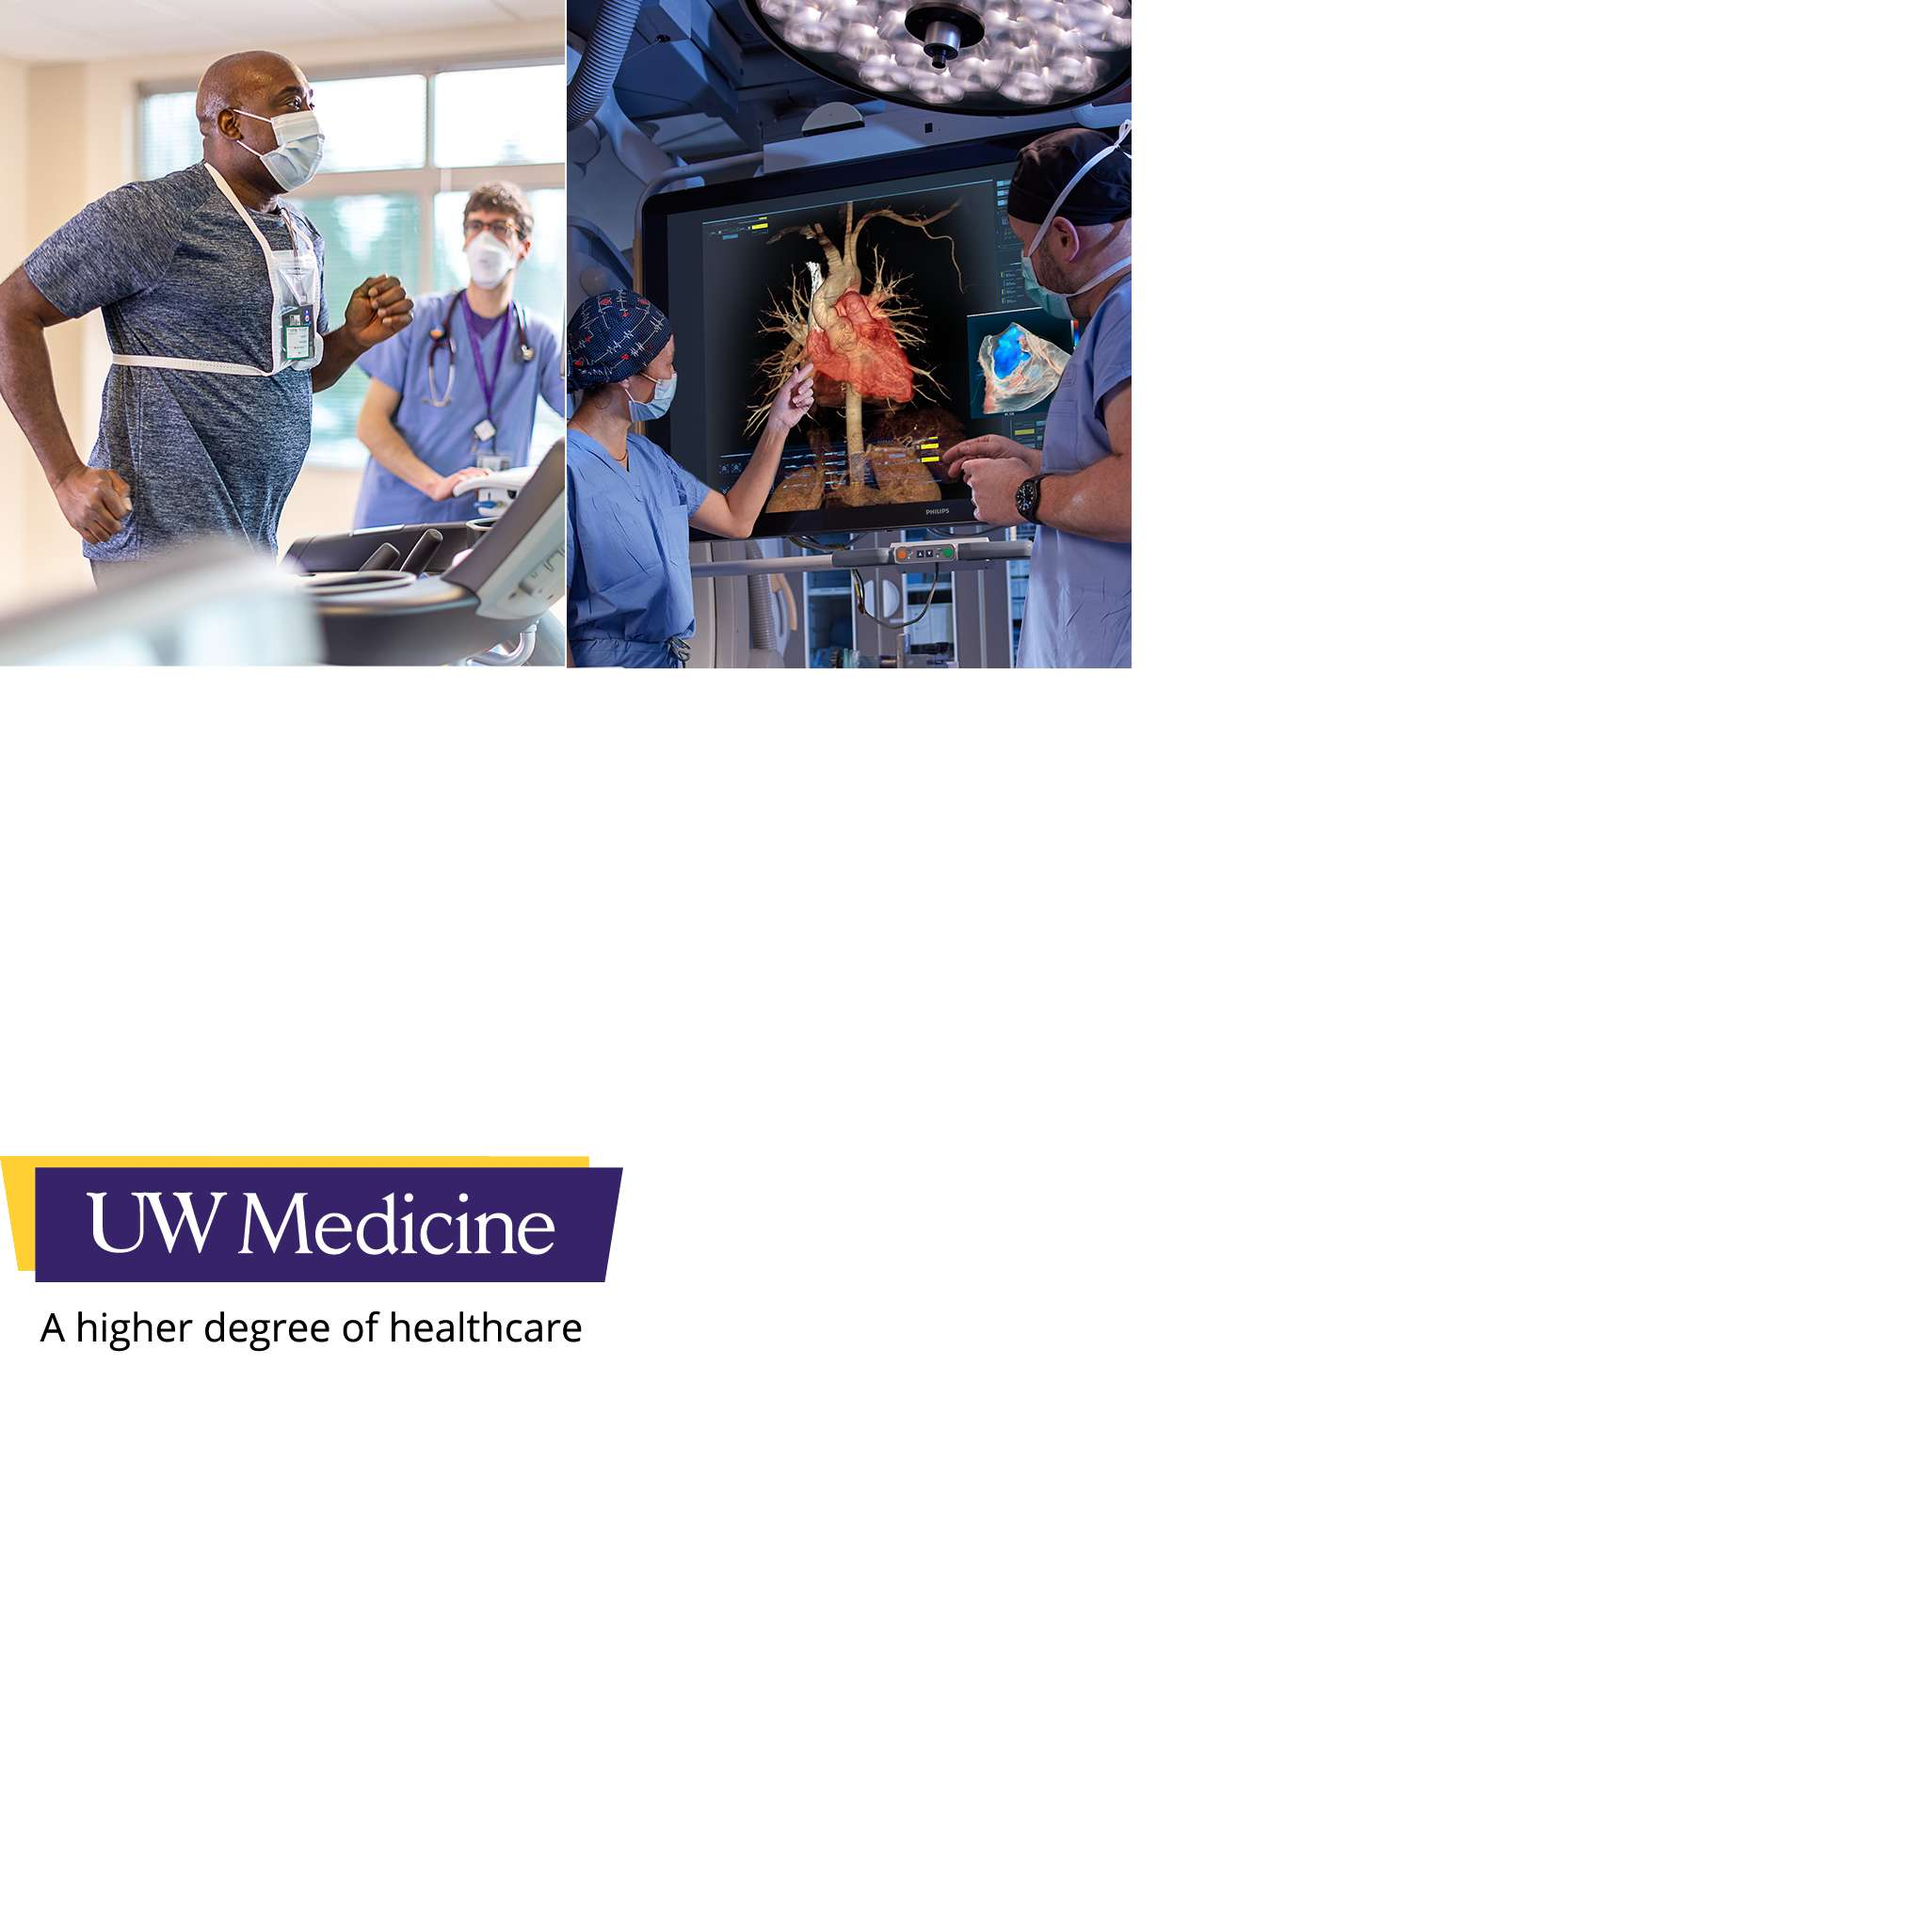
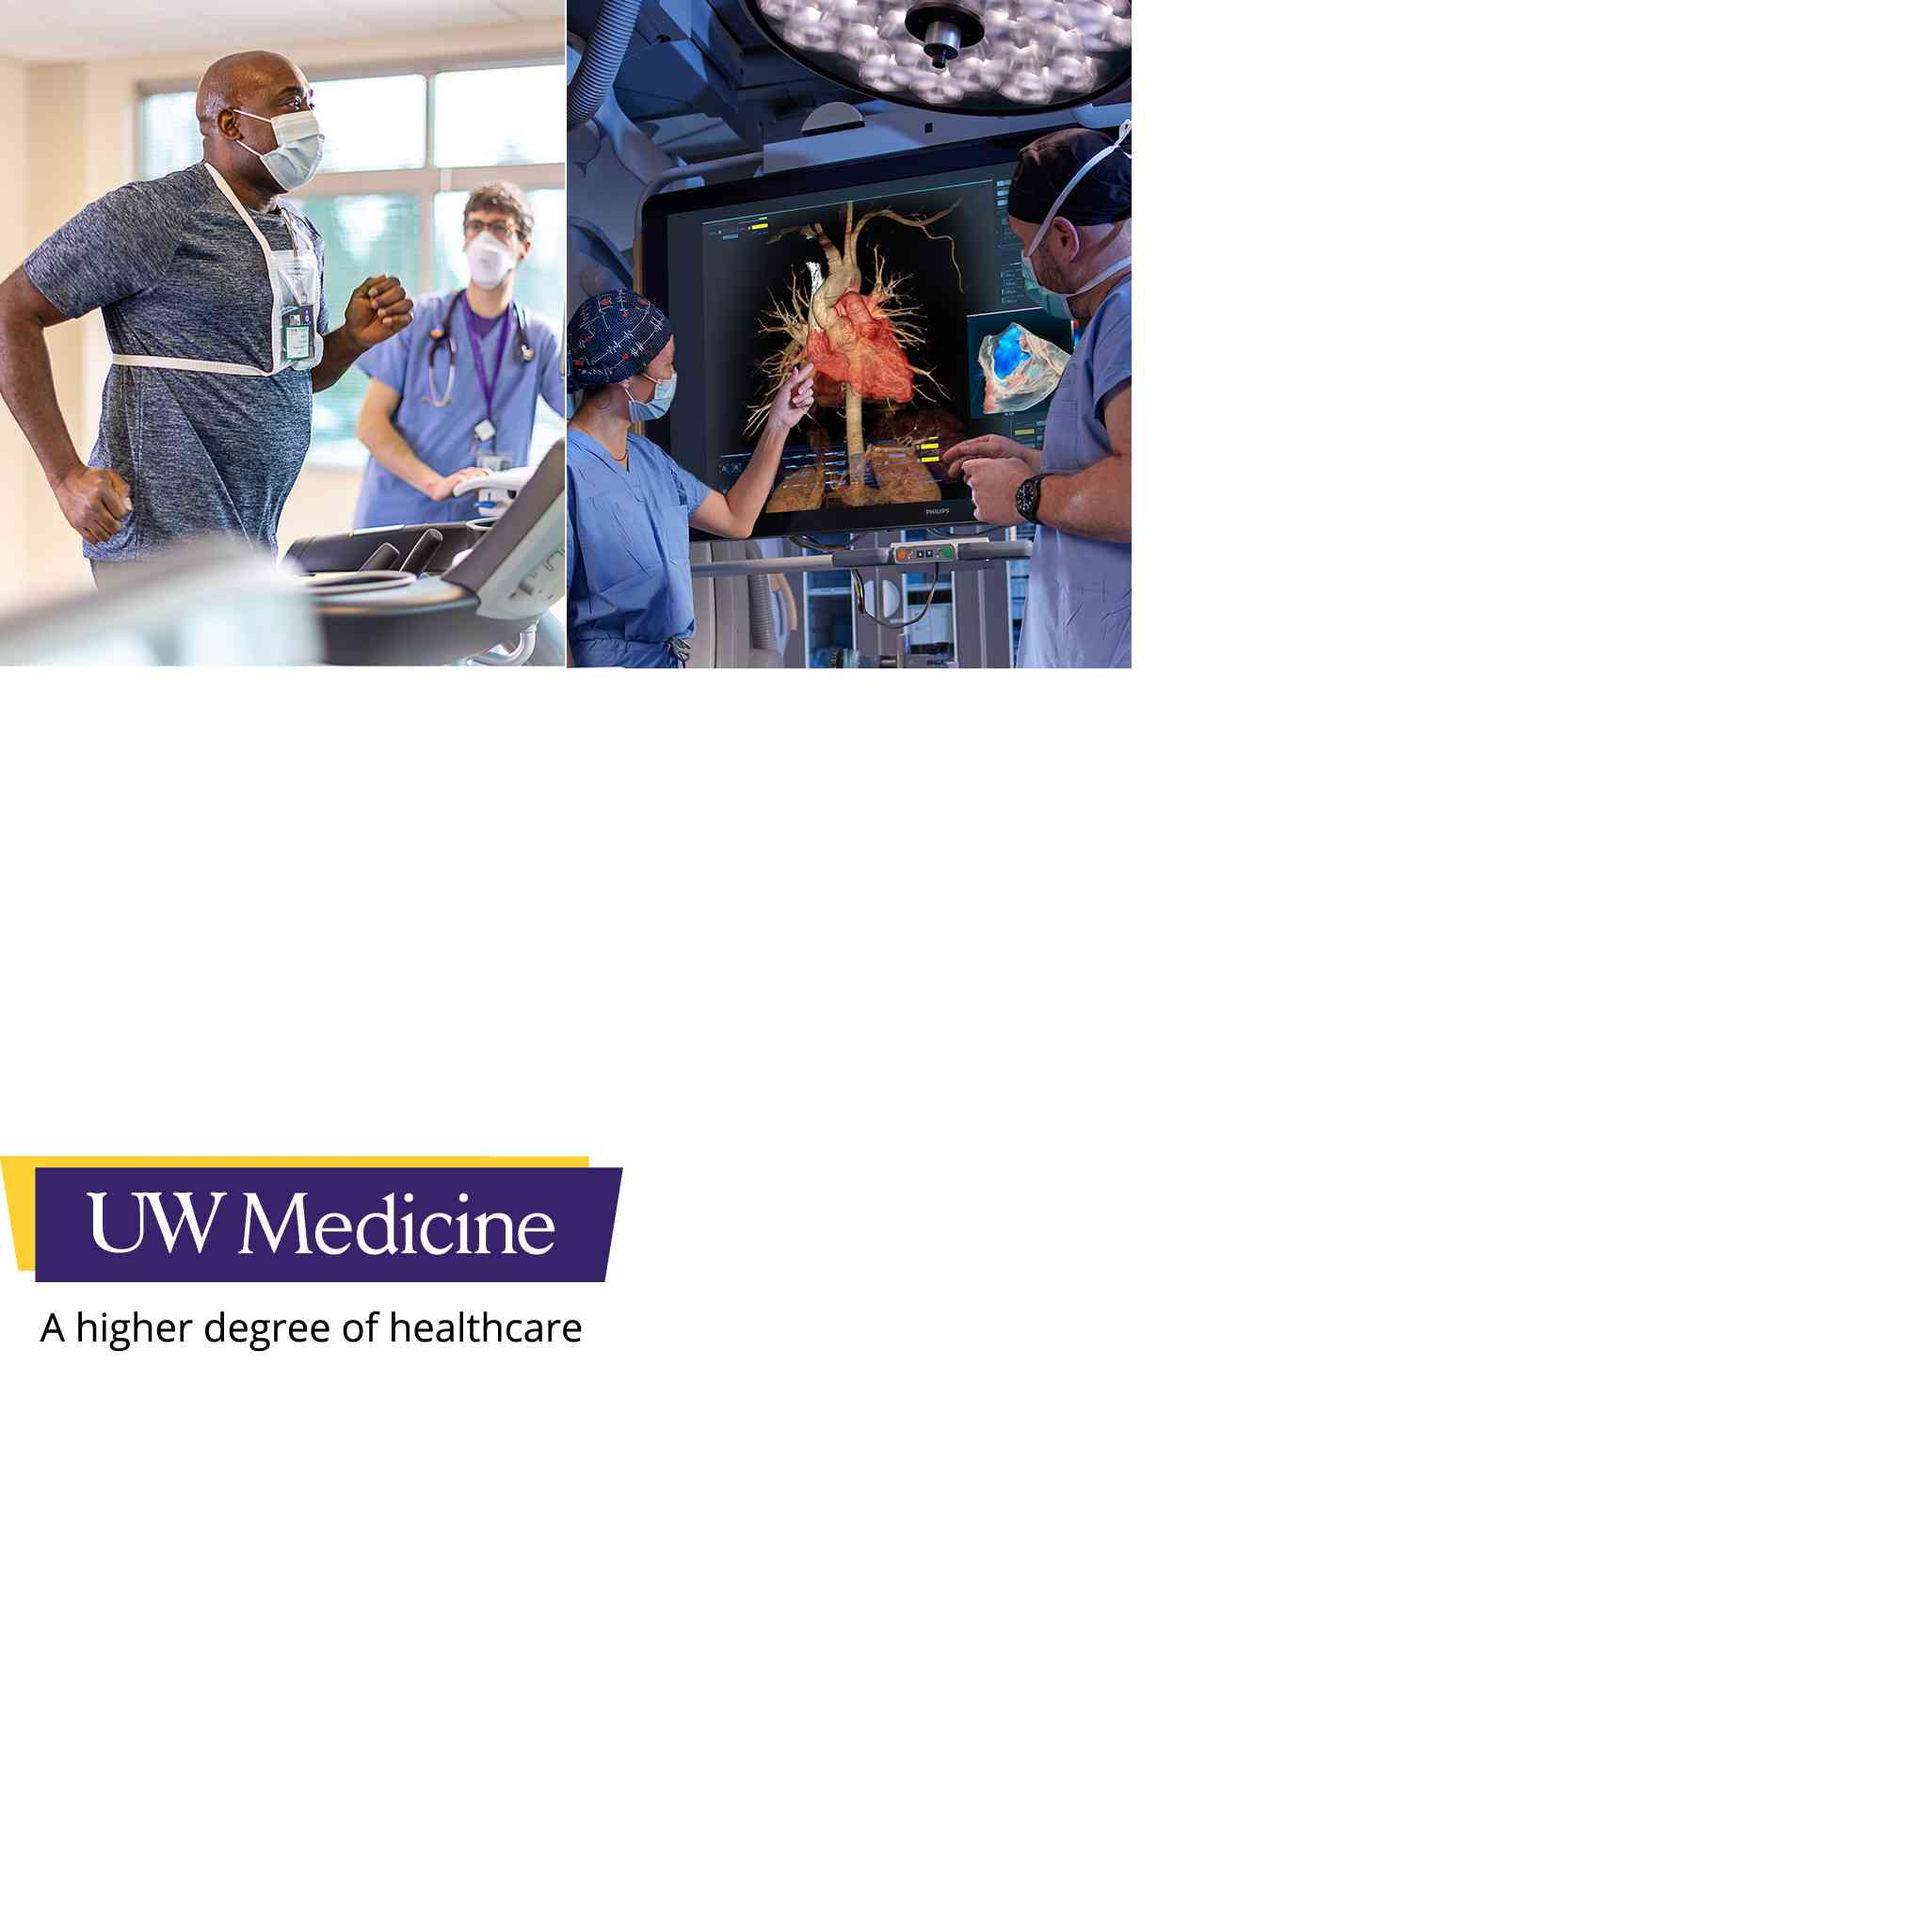
Add files via upload

diff --git a/cardio/1024x768/UWM_cardio_1024x768.js b/cardio/1024x768/UWM_cardio_1024x768.js
@@ -3,7 +3,7 @@
 var p; // shortcut to reference prototypes
 var lib={};var ss={};var img={};
 lib.ssMetadata = [
-		{name:"UWM_cardio_1024x768_atlas_1", frames: [[0,0,1940,500],[0,502,1940,500],[0,1004,662,234]]}
+		{name:"UWM_cardio_1024x768_atlas_1", frames: [[0,0,2048,1536],[0,1538,2048,1536],[0,3076,662,234]]}
 ];
 
 
@@ -27,14 +27,14 @@ lib.ssMetadata = [
 
 
 
-(lib.pic970x250cardiorehab = function() {
+(lib.pic1024x768cardiorehab = function() {
 	this.initialize(ss["UWM_cardio_1024x768_atlas_1"]);
 	this.gotoAndStop(0);
 }).prototype = p = new cjs.Sprite();
 
 
 
-(lib.pic970x250cardioscreen = function() {
+(lib.pic1024x768cardioscreen = function() {
 	this.initialize(ss["UWM_cardio_1024x768_atlas_1"]);
 	this.gotoAndStop(1);
 }).prototype = p = new cjs.Sprite();
@@ -144,14 +144,14 @@ if (reversed == null) { reversed = false; }
 	cjs.MovieClip.apply(this,[props]);
 
 	// Layer_1
-	this.instance = new lib.pic970x250cardiorehab();
-	this.instance.setTransform(0,0,0.5449,0.5449);
+	this.instance = new lib.pic1024x768cardiorehab();
+	this.instance.setTransform(0,0,0.5,0.5);
 
 	this.timeline.addTween(cjs.Tween.get(this.instance).wait(1));
 
 	this._renderFirstFrame();
 
-}).prototype = getMCSymbolPrototype(lib.PIC2, new cjs.Rectangle(0,0,1057.2,272.5), null);
+}).prototype = getMCSymbolPrototype(lib.PIC2, new cjs.Rectangle(0,0,1024,768), null);
 
 
 (lib.PIC1 = function(mode,startPosition,loop,reversed) {
@@ -166,14 +166,14 @@ if (reversed == null) { reversed = false; }
 	cjs.MovieClip.apply(this,[props]);
 
 	// Layer_1
-	this.instance = new lib.pic970x250cardioscreen();
-	this.instance.setTransform(0,0,0.5423,0.5423);
+	this.instance = new lib.pic1024x768cardioscreen();
+	this.instance.setTransform(0,0,0.5,0.5);
 
 	this.timeline.addTween(cjs.Tween.get(this.instance).wait(1));
 
 	this._renderFirstFrame();
 
-}).prototype = getMCSymbolPrototype(lib.PIC1, new cjs.Rectangle(0,0,1052.1,271.2), null);
+}).prototype = getMCSymbolPrototype(lib.PIC1, new cjs.Rectangle(0,0,1024,768), null);
 
 
 (lib.HEAD3 = function(mode,startPosition,loop,reversed) {
@@ -528,8 +528,8 @@ if (reversed == null) { reversed = false; }
 
 	// border
 	this.shape = new cjs.Shape();
-	this.shape.graphics.f().s("#000000").ss(1,1,1).p("EBP7g76MAAAB31Mif1AAAMAAAh31");
-	this.shape.setTransform(512,384);
+	this.shape.graphics.f().s("#000000").ss(1,1,1).p("EBP7gPCIAAeFMif1AAAIAA+F");
+	this.shape.setTransform(512,671.25);
 
 	this.timeline.addTween(cjs.Tween.get(this.shape).wait(284));
 
@@ -608,7 +608,6 @@ if (reversed == null) { reversed = false; }
 
 	// PIC2
 	this.instance_9 = new lib.PIC2();
-	this.instance_9.setTransform(0,0,2.1333,2.1333);
 	this.instance_9.alpha = 0;
 	this.instance_9._off = true;
 
@@ -616,7 +615,6 @@ if (reversed == null) { reversed = false; }
 
 	// PIC1
 	this.instance_10 = new lib.PIC1();
-	this.instance_10.setTransform(0,0,2.1333,2.1333);
 
 	this.timeline.addTween(cjs.Tween.get(this.instance_10).to({_off:true},128).wait(156));
 
@@ -634,7 +632,7 @@ if (reversed == null) { reversed = false; }
 	this._renderFirstFrame();
 
 }).prototype = p = new lib.AnMovieClip();
-p.nominalBounds = new cjs.Rectangle(396.9,383.5,2414,725.8);
+p.nominalBounds = new cjs.Rectangle(396.9,384,2414,725.3);
 // library properties:
 lib.properties = {
 	id: '0957C5EC3B874C629166840920B09671',
@@ -644,7 +642,7 @@ lib.properties = {
 	color: "#999999",
 	opacity: 1.00,
 	manifest: [
-		{src:"images/UWM_cardio_1024x768_atlas_1.jpg?1679930596472", id:"UWM_cardio_1024x768_atlas_1"}
+		{src:"images/UWM_cardio_1024x768_atlas_1.jpg", id:"UWM_cardio_1024x768_atlas_1"}
 	],
 	preloads: []
 };

diff --git a/cardio/768x1024/UWM_cardio_768x1024.js b/cardio/768x1024/UWM_cardio_768x1024.js
@@ -669,7 +669,7 @@ lib.properties = {
 	color: "#999999",
 	opacity: 1.00,
 	manifest: [
-		{src:"images/UWM_cardio_768x1024_atlas_1.jpg?1679930620917", id:"UWM_cardio_768x1024_atlas_1"}
+		{src:"images/UWM_cardio_768x1024_atlas_1.jpg", id:"UWM_cardio_768x1024_atlas_1"}
 	],
 	preloads: []
 };
